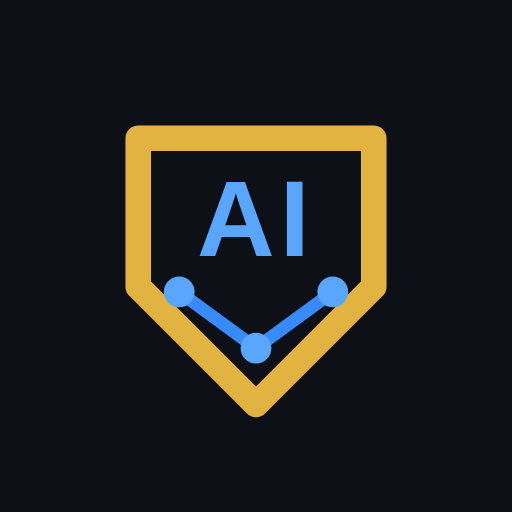
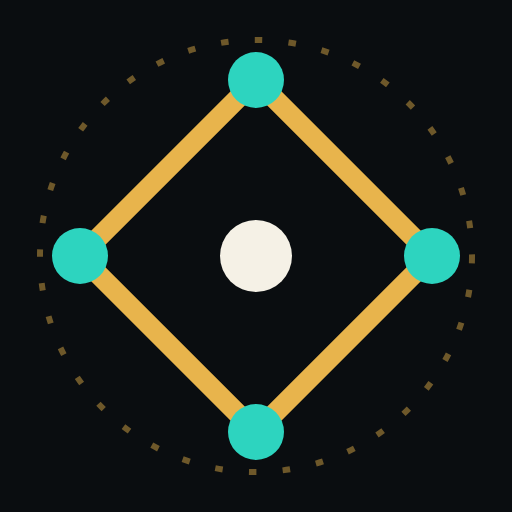
ロゴをロゴ案5a「Scoreboard Matrix Lockup」にリブランディング＋タグライン刷新
# ロゴ/ブランドマーク
確定仕様(高精度spec)に基づき、favicon.svg・PWAアイコン・アプリヘッダーを新デザインへ刷新。
- DiamondIcon: 内野ダイヤモンド+点線オービット(pathLength=360で均等配置)+4塁ノード(teal)+
  本塁ノード(ivory)。favicon(128 viewBox)とヘッダー(32px)で同一SVGマスターを共用。
- LedWordmark: 「AI◆BASE」を5×7 LEDドットマトリクスで描画(フォント不使用、SVG rect)。
  AIは#F4D9A0、BASEは#F5F1E6、◆セパレータ(3×3・十字/菱形)は#2DD4BF。過去に「BASE」の
  先頭Aが抜けるバグがあったため、WORD_AI/WORD_BASEを明示配列で分離しコード上で保証。
  文字色判定を「文字自体」ではなく「所属する単語」で分岐するよう実装(BASEのAがAI色に
  誤認識される不具合を実装時に検出・修正)。
- ヘッダーはアイコン+LEDワードマーク(縮小: dot 3.2px)+DIAMONDサブタイトル(システムフォント
  代替、Google Fonts不使用でオフライン起動を維持)の3点ロックアップ。h1にsr-only実テキスト
  「AI-BASE DIAMOND」を併記しアクセシビリティ/SEOを確保、装飾SVGはaria-hidden。
- favicon.svg: viewBox 0 0 128 128・rx=28に刷新、gen-icons.mjsの角丸置換対象も追従。
  PNGアイコン(512/192/apple-touch-icon)を新デザインで再生成。

# タグライン刷新
index.html meta description / manifest.webmanifest description を
「指先ひとつでプロレベル。野球を、もっと楽しく力強く。すべてのベンチに、専属のAIスコアラーを。」
に変更(旧: 音声実況を前面に出しすぎていた表現を、実態(タップ入力+自動集計)に即した内容へ)。

検証: 全12 e2eステージ通過。ヘッダーのLEDワードマークrect数(219=6文字×35+セパレータ9)で
文字構成を検証、favicon 32px/16pxでの視認性を確認。

diff --git a/src/components/BrandMark.jsx b/src/components/BrandMark.jsx
@@ -1,0 +1,163 @@
+import React from 'react';
+
+// ============================================================
+// AI-BASE DIAMOND ブランドマーク(ロゴ5a「Scoreboard Matrix Lockup」の忠実な再現)
+// - DiamondIcon: 内野ダイヤモンド+点線オービット+塁ノード+本塁ノード(favicon/ヘッダー共用の単一マスター)
+// - LedWordmark: 「AI◆BASE」をLEDドットマトリクスで描画(フォントを使わず5×7ビットマップ)
+// 数値(色・比率・ドットパターン)はデザイン確定仕様に準拠。SVGで解像度非依存に構築する。
+// ============================================================
+
+export const BRAND_COLORS = {
+  bg: '#0A0D10',
+  gold: '#E8B44C',
+  teal: '#2DD4BF',
+  ivory: '#F5F1E6',
+  aiGold: '#F4D9A0',
+  off: 'rgba(255,255,255,0.05)',
+};
+
+// ---- ① ダイヤモンドアイコン(viewBox 0 0 128 128) ----
+// favicon/PWAアイコンとヘッダーの両方でこの1つのSVGを共用する(単一マスター)。
+export function DiamondIcon({ size = 32, showOrbit = true, className, ...rest }) {
+  return (
+    <svg
+      className={className}
+      width={size}
+      height={size}
+      viewBox="0 0 128 128"
+      aria-hidden="true"
+      {...rest}
+    >
+      {showOrbit && (
+        <circle
+          cx="64" cy="64" r="54"
+          stroke={BRAND_COLORS.gold} strokeWidth="1.5"
+          pathLength="360" strokeDasharray="2 7"
+          fill="none" opacity="0.45"
+        />
+      )}
+      <path
+        d="M64 20 L108 64 L64 108 L20 64 Z"
+        stroke={BRAND_COLORS.gold} strokeWidth="5" fill="none" strokeLinejoin="round"
+      />
+      <circle cx="64" cy="20" r="7" fill={BRAND_COLORS.teal} />
+      <circle cx="108" cy="64" r="7" fill={BRAND_COLORS.teal} />
+      <circle cx="64" cy="108" r="7" fill={BRAND_COLORS.teal} />
+      <circle cx="20" cy="64" r="7" fill={BRAND_COLORS.teal} />
+      <circle cx="64" cy="64" r="9" fill={BRAND_COLORS.ivory} />
+    </svg>
+  );
+}
+
+// ---- ② LEDワードマーク「AI◆BASE」(5×7ドットマトリクス。フォント不使用) ----
+// 1=点灯 0=消灯。過去に「BASE」の先頭Aが抜けるバグがあったため、文字列は必ず
+// AI + ◆(セパレータ) + B,A,S,E の4文字であることをこの配列自体で保証する。
+const GLYPH_5x7 = {
+  A: ['01110', '10001', '10001', '11111', '10001', '10001', '10001'],
+  I: ['11111', '00100', '00100', '00100', '00100', '00100', '11111'],
+  B: ['11110', '10001', '10001', '11110', '10001', '10001', '11110'],
+  S: ['01111', '10000', '10000', '01110', '00001', '00001', '11110'],
+  E: ['11111', '10000', '10000', '11110', '10000', '10000', '11111'],
+};
+// ◆セパレータ(3×3): 中央+上下左右の5灯(プラス/菱形形)
+const SEP_3x3 = ['010', '101', '010'];
+
+const WORD_AI = ['A', 'I'];
+const WORD_BASE = ['B', 'A', 'S', 'E'];
+
+// 1文字ぶんのドットグリッドをrectで描画
+function Glyph({ pattern, x, dot, gap, color, glow }) {
+  const cell = dot + gap;
+  const rects = [];
+  pattern.forEach((row, r) => {
+    [...row].forEach((bit, c) => {
+      const on = bit === '1';
+      rects.push(
+        <rect
+          key={`${r}-${c}`}
+          x={x + c * cell}
+          y={r * cell}
+          width={dot}
+          height={dot}
+          rx={Math.max(0.5, dot * 0.2)}
+          fill={on ? color : BRAND_COLORS.off}
+          filter={on && glow ? 'url(#ledGlow)' : undefined}
+        />
+      );
+    });
+  });
+  return <>{rects}</>;
+}
+
+// dot/gap(px)でサイズ調整可能。letterGap=文字間、sepGap=セパレータ前後の間隔。
+// glow=true で微光フィルタを付与(小サイズでは視認性が下がるため既定offを推奨)。
+export function LedWordmark({ dot = 15, gap = 4, letterGap = 6, sepGap = 6, glow = false, className }) {
+  const cols = 5;
+  const cell = dot + gap;
+  const letterW = cols * dot + (cols - 1) * gap;
+  const sepDot = Math.max(1.5, dot * 0.6);
+  const sepGapPx = Math.max(1, gap * 0.75);
+  const sepCell = sepDot + sepGapPx;
+  const sepW = 3 * sepDot + 2 * sepGapPx;
+
+  let x = 0;
+  const parts = [];
+  WORD_AI.forEach((ch, i) => {
+    parts.push({ ch, x, word: 'AI' });
+    x += letterW + (i < WORD_AI.length - 1 ? letterGap : 0);
+  });
+  const sepX = x + sepGap;
+  x = sepX + sepW + sepGap;
+  WORD_BASE.forEach((ch, i) => {
+    parts.push({ ch, x, word: 'BASE' });
+    x += letterW + (i < WORD_BASE.length - 1 ? letterGap : 0);
+  });
+  const totalW = x;
+  const totalH = 7 * dot + 6 * gap;
+
+  return (
+    <svg className={className} width={totalW} height={totalH} viewBox={`0 0 ${totalW} ${totalH}`} aria-hidden="true">
+      {glow && (
+        <defs>
+          <filter id="ledGlow" x="-100%" y="-100%" width="300%" height="300%">
+            <feGaussianBlur stdDeviation={dot * 0.35} result="blur" />
+            <feMerge>
+              <feMergeNode in="blur" />
+              <feMergeNode in="SourceGraphic" />
+            </feMerge>
+          </filter>
+        </defs>
+      )}
+      {parts.map((p, i) => (
+        <Glyph
+          key={i}
+          pattern={GLYPH_5x7[p.ch]}
+          x={p.x}
+          dot={dot}
+          gap={gap}
+          color={p.word === 'AI' ? BRAND_COLORS.aiGold : BRAND_COLORS.ivory}
+          glow={glow}
+        />
+      ))}
+      {/* ◆セパレータ(3x3・中央のみ縦方向centering) */}
+      {SEP_3x3.map((row, r) =>
+        [...row].map((bit, c) => {
+          const on = bit === '1';
+          const yOff = (totalH - (3 * sepDot + 2 * sepGapPx)) / 2;
+          return (
+            <rect
+              key={`sep-${r}-${c}`}
+              x={sepX + c * sepCell}
+              y={yOff + r * sepCell}
+              width={sepDot}
+              height={sepDot}
+              rx={Math.max(0.5, sepDot * 0.2)}
+              fill={on ? BRAND_COLORS.teal : BRAND_COLORS.off}
+              filter={on && glow ? 'url(#ledGlow)' : undefined}
+            />
+          );
+        })
+      )}
+    </svg>
+  );
+}

diff --git a/src/App.jsx b/src/App.jsx
@@ -11,6 +11,7 @@ import { decodeConfig } from './components/WatchView.jsx';
 import { officialAvailable, currentUserAsync, loginWithPassword, joinByInvite } from './lib/officialCloud.js';
 import { addProfile, switchActiveProfile } from './lib/profiles.js';
 import { persist } from './state/store.jsx';
+import { DiamondIcon, LedWordmark } from './components/BrandMark.jsx';
 
 const TABS = [
   { id: 'home', label: 'ホーム', icon: '🏆' },
@@ -149,21 +150,15 @@ export default function App() {
       )}
       <header className="app-header">
         <div>
-          {/* ブランドを主役に: ロゴ+AI-BASE DIAMONDワードマークを1行目、エディション+チーム名を2行目に */}
-          <h1>
-            {/* AI-BASEモノグラム(favicon.svgと同デザインの縮小版・背景なし) */}
-            <svg className="brand-mark" viewBox="0 0 100 100" width="30" height="30" aria-hidden="true">
-              <path d="M27 27 H73 V56 L50 79 L27 56 Z" fill="none" stroke="#e3b341" strokeWidth="7" strokeLinejoin="round" />
-              <path d="M35 57 L50 68 L65 57" fill="none" stroke="#388bfd" strokeWidth="4" strokeLinecap="round" strokeLinejoin="round" />
-              <circle cx="35" cy="57" r="4.5" fill="#58a6ff" />
-              <circle cx="65" cy="57" r="4.5" fill="#58a6ff" />
-              <circle cx="50" cy="68" r="4.5" fill="#58a6ff" />
-              <text x="50" y="50" textAnchor="middle" fontFamily="'Helvetica Neue',Arial,sans-serif" fontWeight="800" fontSize="24" fill="#58a6ff">AI</text>
-            </svg>
-            <span>
-              <span className="brand-ai">AI</span><span className="brand-dash">-</span><span className="brand-base">BASE</span>
-              <span className="brand-diamond"> DIAMOND</span>
-            </span>
+          {/* ブランドを主役に: アイコン+LEDワードマーク「AI◆BASE」+DIAMONDサブタイトルを1つのロックアップとして表示。
+              LEDドットマトリクスは装飾(aria-hidden)、実テキストはsr-onlyで併記してh1のアクセシビリティ/SEOを担保。 */}
+          <h1 className="brand-row">
+            <DiamondIcon size={32} className="brand-mark" />
+            <div className="brand-text" aria-hidden="true">
+              <LedWordmark dot={3.2} gap={1} letterGap={2.2} sepGap={2.4} />
+              <div className="brand-diamond-sub">DIAMOND</div>
+            </div>
+            <span className="sr-only">AI-BASE DIAMOND</span>
           </h1>
           <div className="sub">
             <span className="brand-for">for {state.settings.edition || '草野球'}</span>

diff --git a/src/styles.css b/src/styles.css
@@ -96,16 +96,20 @@ input:focus, select:focus, textarea:focus { outline: none; border-color: var(--a
   border-bottom: 1px solid var(--border);
   flex-shrink: 0;
 }
-.app-header h1 { font-size: 20px; font-weight: 800; letter-spacing: 0.02em; display: flex; align-items: center; gap: 8px; }
-.app-header .sub { font-size: 12px; color: var(--text-dim); margin-top: 1px; }
+.app-header h1 { font-size: 20px; font-weight: 800; letter-spacing: 0.02em; margin: 0; }
+.app-header .sub { font-size: 12px; color: var(--text-dim); margin-top: 3px; }
 .header-btns { display: flex; gap: 8px; align-items: center; }
-/* AI-BASE DIAMOND ワードマーク(ヘッダー) */
+/* AI-BASE DIAMOND ブランドロックアップ(ロゴ5a): アイコン+LEDワードマーク+DIAMONDサブタイトル */
+.brand-row { display: flex; align-items: center; gap: 10px; }
 .brand-mark { flex-shrink: 0; }
-.brand-ai { color: var(--accent); font-weight: 800; letter-spacing: 0.04em; }
-.brand-dash { color: var(--text-dim); font-weight: 800; }
-.brand-base { color: var(--gold); font-weight: 800; letter-spacing: 0.04em; }
-.brand-diamond { color: var(--text); font-weight: 800; letter-spacing: 0.12em; font-size: 0.82em; }
+.brand-text { display: flex; flex-direction: column; gap: 3px; }
+.brand-diamond-sub { color: var(--gold); font-weight: 500; letter-spacing: 0.42em; font-size: 9px; line-height: 1; }
 .brand-for { color: var(--accent); font-weight: 800; }
+/* 視覚的には隠すがスクリーンリーダー/SEOには実テキストとして残す */
+.sr-only {
+  position: absolute; width: 1px; height: 1px; padding: 0; margin: -1px;
+  overflow: hidden; clip: rect(0, 0, 0, 0); white-space: nowrap; border: 0;
+}
 
 .main {
   flex: 1;

diff --git a/index.html b/index.html
@@ -8,7 +8,7 @@
     <meta name="mobile-web-app-capable" content="yes" />
     <meta name="apple-mobile-web-app-status-bar-style" content="black-translucent" />
     <meta name="apple-mobile-web-app-title" content="AI-BASE" />
-    <meta name="description" content="AI-BASE DIAMOND — 音声実況＆タップUIのAI野球スコア・成績管理" />
+    <meta name="description" content="指先ひとつでプロレベル。野球を、もっと楽しく力強く。すべてのベンチに、専属のAIスコアラーを。" />
     <link rel="manifest" href="./manifest.webmanifest" />
     <link rel="apple-touch-icon" href="./apple-touch-icon.png" />
     <link rel="icon" type="image/svg+xml" href="./favicon.svg" />